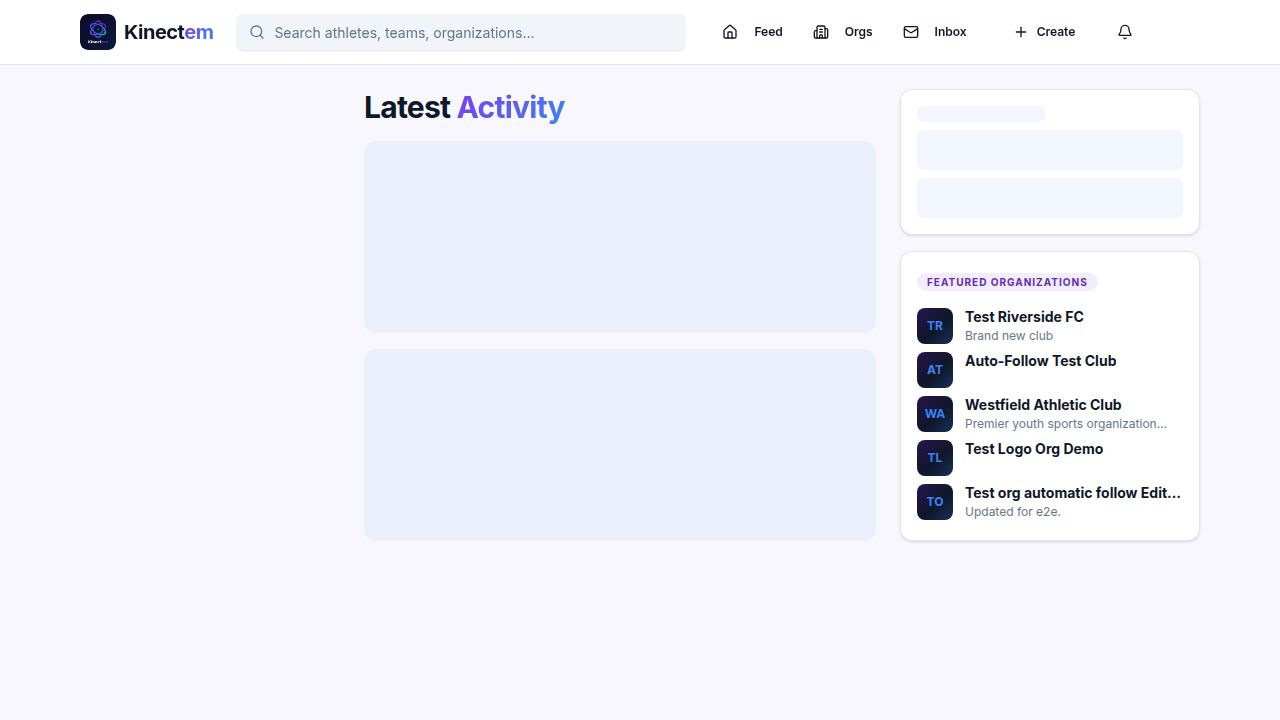
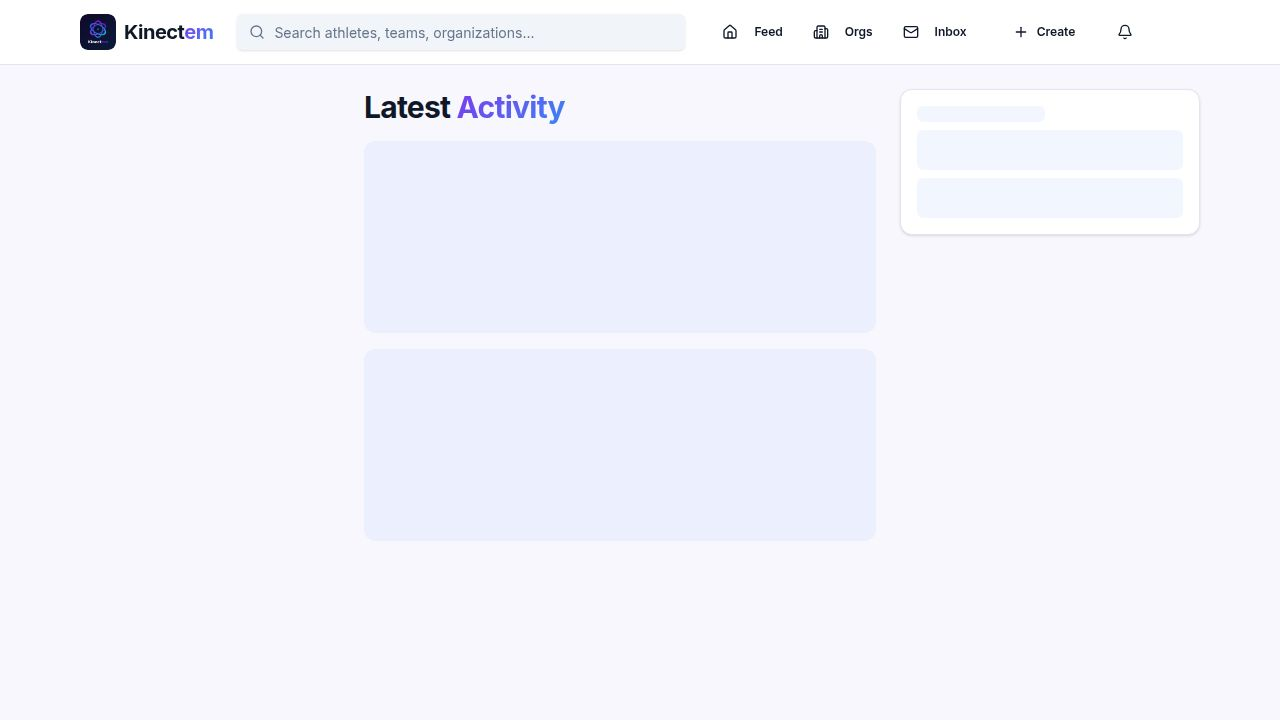
Task #105: Tap-to-enlarge profile photos in posts and message lists
Extended the avatar lightbox pattern that Task #95 introduced on the
user profile page to two more places where avatars appear:

- Post header avatars in the feed/PostCard
- Post author avatar on the PostPage
- Conversation list (left rail) participant avatars in MessagesPage

Implementation:
- Added a small reusable `AvatarLightbox` component
  (`artifacts/kinectem/src/components/AvatarLightbox.tsx`) that wraps an
  Avatar in a Radix Dialog trigger, with a sr-only DialogTitle for a11y
  and a transparent dialog showing the full image. When `avatarUrl` is
  null/undefined the component renders the children as-is (no-op).
- Refactored `UserProfilePage` to use the shared component (no behavior
  change; same data-testids preserved).
- Added the lightbox to `PostCard` (context avatar in the post header),
  `PostPage` (post author avatar), and the `MessagesPage` conversation
  list rail.
- Restructured the conversation list row from a `<Link><button>` wrapper
  into a `<div>` that contains the avatar lightbox button and a
  separate `<Link>` over the name/preview text. This avoids invalid
  nested `<button>`s and matches the spec: avatar opens lightbox; row
  text still navigates to the conversation.

Notable bug fixed during testing:
- The trigger button initially called `e.preventDefault()` to swallow
  the event in nested-link contexts. Radix Dialog's
  `composeEventHandlers` skips its own onClick (and so the dialog never
[…]

Changed region(s): [[0.7188, 0.4278, 0.9062, 0.7333], [0.7188, 0.3667, 0.8438, 0.3972]]

diff --git a/artifacts/kinectem/src/components/AvatarLightbox.tsx b/artifacts/kinectem/src/components/AvatarLightbox.tsx
@@ -1,0 +1,72 @@
+import { ReactNode } from "react";
+import {
+  Dialog,
+  DialogContent,
+  DialogTitle,
+  DialogTrigger,
+} from "@/components/ui/dialog";
+
+type AvatarLightboxProps = {
+  avatarUrl: string | null | undefined;
+  displayName: string;
+  ariaLabel?: string;
+  triggerClassName?: string;
+  triggerTestId?: string;
+  dialogTestId?: string;
+  imageTestId?: string;
+  children: ReactNode;
+};
+
+export function AvatarLightbox({
+  avatarUrl,
+  displayName,
+  ariaLabel,
+  triggerClassName,
+  triggerTestId,
+  dialogTestId,
+  imageTestId,
+  children,
+}: AvatarLightboxProps) {
+  if (!avatarUrl) {
+    return <>{children}</>;
+  }
+  return (
+    <Dialog>
+      <DialogTrigger asChild>
+        <button
+          type="button"
+          className={
+            triggerClassName ??
+            "rounded-full focus:outline-none focus-visible:ring-2 focus-visible:ring-ring focus-visible:ring-offset-2"
+          }
+          aria-label={ariaLabel ?? `View ${displayName}'s profile photo`}
+          data-testid={triggerTestId}
+          onClick={(e) => {
+            // Stop the click from bubbling so any wrapping link/row
+            // doesn't navigate, but do NOT preventDefault — Radix's
+            // DialogTrigger skips opening the dialog when the event's
+            // default has already been prevented.
+            e.stopPropagation();
+          }}
+        >
+          {children}
+        </button>
+      </DialogTrigger>
+      <DialogContent
+        className="max-w-2xl p-0 bg-transparent border-none shadow-none"
+        data-testid={dialogTestId}
+        aria-describedby={undefined}
+      >
+        <DialogTitle className="sr-only">
+          {displayName}'s profile photo
+        </DialogTitle>
+        <img
+          src={avatarUrl}
+          alt={`${displayName}'s profile photo`}
+          className="w-full h-auto max-h-[80vh] object-contain rounded-lg"
+          data-testid={imageTestId}
+        />
+      </DialogContent>
+    </Dialog>
+  );
+}

diff --git a/artifacts/kinectem/src/pages/MessagesPage.tsx b/artifacts/kinectem/src/pages/MessagesPage.tsx
@@ -46,6 +46,7 @@ import {
 } from "lucide-react";
 import { timeAgo, getInitials } from "@/lib/format";
 import { shrinkImage, IMAGE_UPLOAD_MAX_BYTES } from "@/lib/shrinkImage";
+import { AvatarLightbox } from "@/components/AvatarLightbox";
 
 function isDeleted(
   m: MessageResponse | DeletedMessageStub,
@@ -157,14 +158,24 @@ export default function MessagesPage() {
           </Card>
         ) : (
           items.map((c: ConversationListItem) => (
-            <Link key={c.id} href={`/messages/${c.id}`}>
-              <button
-                className={`w-full text-left p-3 rounded-lg flex gap-3 cursor-pointer ${
-                  activeId === c.id ? "bg-muted" : "hover:bg-muted/60"
-                }`}
-                data-testid={`conversation-${c.id}`}
+            <div
+              key={c.id}
+              className={`w-full p-3 rounded-lg flex gap-3 ${
+                activeId === c.id ? "bg-muted" : "hover:bg-muted/60"
+              }`}
+              data-testid={`conversation-${c.id}`}
+            >
+              <AvatarLightbox
+                avatarUrl={c.participant.avatarUrl}
+                displayName={c.participant.displayName}
+                triggerClassName="shrink-0 rounded-full focus:outline-none focus-visible:ring-2 focus-visible:ring-ring focus-visible:ring-offset-2"
+                triggerTestId={`btn-open-conversation-avatar-lightbox-${c.id}`}
+                dialogTestId={`dialog-conversation-avatar-lightbox-${c.id}`}
+                imageTestId={`img-conversation-avatar-lightbox-${c.id}`}
               >
-                <Avatar className="w-10 h-10 shrink-0">
+                <Avatar
+                  className={`w-10 h-10 shrink-0 ${c.participant.avatarUrl ? "cursor-pointer" : ""}`}
+                >
                   {c.participant.avatarUrl && (
                     <AvatarImage src={c.participant.avatarUrl} />
                   )}
@@ -172,23 +183,27 @@ export default function MessagesPage() {
                     {getInitials(c.participant.displayName)}
                   </AvatarFallback>
                 </Avatar>
-                <div className="min-w-0 flex-1">
-                  <div className="flex items-center justify-between">
-                    <p className="font-bold text-sm truncate">
-                      {c.participant.displayName}
-                    </p>
-                    {c.unreadCount > 0 && (
-                      <Badge className="text-[10px] font-black bg-primary text-primary-foreground h-4 px-1.5">
-                        {c.unreadCount}
-                      </Badge>
-                    )}
-                  </div>
-                  <p className="text-xs text-muted-foreground truncate">
-                    {c.lastMessage?.bodyPreview ?? "No messages yet"}
+              </AvatarLightbox>
+              <Link
+                href={`/messages/${c.id}`}
+                className="min-w-0 flex-1 text-left cursor-pointer"
+                data-testid={`link-conversation-${c.id}`}
+              >
+                <div className="flex items-center justify-between">
+                  <p className="font-bold text-sm truncate">
+                    {c.participant.displayName}
                   </p>
+                  {c.unreadCount > 0 && (
+                    <Badge className="text-[10px] font-black bg-primary text-primary-foreground h-4 px-1.5">
+                      {c.unreadCount}
+                    </Badge>
+                  )}
                 </div>
-              </button>
-            </Link>
+                <p className="text-xs text-muted-foreground truncate">
+                  {c.lastMessage?.bodyPreview ?? "No messages yet"}
+                </p>
+              </Link>
+            </div>
           ))
         )}
       </aside>

diff --git a/artifacts/kinectem/src/pages/UserProfilePage.tsx b/artifacts/kinectem/src/pages/UserProfilePage.tsx
@@ -29,16 +29,11 @@ import { Badge } from "@/components/ui/badge";
 import { Button } from "@/components/ui/button";
 import { Skeleton } from "@/components/ui/skeleton";
 import { Avatar, AvatarFallback, AvatarImage } from "@/components/ui/avatar";
-import {
-  Dialog,
-  DialogContent,
-  DialogTitle,
-  DialogTrigger,
-} from "@/components/ui/dialog";
 import { Building2, MessageSquare, Tag, Users } from "lucide-react";
 import { PostCard } from "@/components/PostCard";
 import { EditProfileDialog } from "@/components/EditProfileDialog";
 import { FollowListDialog } from "@/components/FollowListDialog";
+import { AvatarLightbox } from "@/components/AvatarLightbox";
 import { getInitials } from "@/lib/format";
 
 export default function UserProfilePage() {
@@ -134,46 +129,22 @@ export default function UserProfilePage() {
         </div>
         <div className="px-6 pb-6 -mt-12">
           <div className="flex items-start justify-between gap-4 flex-wrap">
-            {user.avatarUrl ? (
-              <Dialog>
-                <DialogTrigger asChild>
-                  <button
-                    type="button"
-                    className="rounded-full focus:outline-none focus-visible:ring-2 focus-visible:ring-ring focus-visible:ring-offset-2"
-                    aria-label={`View ${displayName}'s profile photo`}
-                    data-testid="btn-open-avatar-lightbox"
-                  >
-                    <Avatar className="w-24 h-24 border-4 border-card shadow-lg cursor-pointer">
-                      <AvatarImage src={user.avatarUrl} />
-                      <AvatarFallback className="bg-slate-900 text-primary-foreground font-black text-2xl">
-                        {getInitials(displayName)}
-                      </AvatarFallback>
-                    </Avatar>
-                  </button>
-                </DialogTrigger>
-                <DialogContent
-                  className="max-w-2xl p-0 bg-transparent border-none shadow-none"
-                  data-testid="dialog-avatar-lightbox"
-                  aria-describedby={undefined}
-                >
-                  <DialogTitle className="sr-only">
-                    {displayName}'s profile photo
-                  </DialogTitle>
-                  <img
-                    src={user.avatarUrl}
-                    alt={`${displayName}'s profile photo`}
-                    className="w-full h-auto max-h-[80vh] object-contain rounded-lg"
-                    data-testid="img-avatar-lightbox"
-                  />
-                </DialogContent>
-              </Dialog>
-            ) : (
-              <Avatar className="w-24 h-24 border-4 border-card shadow-lg">
+            <AvatarLightbox
+              avatarUrl={user.avatarUrl}
+              displayName={displayName}
+              triggerTestId="btn-open-avatar-lightbox"
+              dialogTestId="dialog-avatar-lightbox"
+              imageTestId="img-avatar-lightbox"
+            >
+              <Avatar
+                className={`w-24 h-24 border-4 border-card shadow-lg ${user.avatarUrl ? "cursor-pointer" : ""}`}
+              >
+                {user.avatarUrl && <AvatarImage src={user.avatarUrl} />}
                 <AvatarFallback className="bg-slate-900 text-primary-foreground font-black text-2xl">
                   {getInitials(displayName)}
                 </AvatarFallback>
               </Avatar>
-            )}
+            </AvatarLightbox>
             {user.isOwnProfile && "email" in user ? (
               <div className="mt-14 flex items-center gap-2">
                 <Link href="/me/tags">

diff --git a/artifacts/kinectem/src/pages/PostPage.tsx b/artifacts/kinectem/src/pages/PostPage.tsx
@@ -8,6 +8,7 @@ import { Play, FileText } from "lucide-react";
 import { timeAgo, getInitials } from "@/lib/format";
 import { PostInteractions } from "@/components/PostInteractions";
 import { GamePhotoAlbum } from "@/components/GamePhotoAlbum";
+import { AvatarLightbox } from "@/components/AvatarLightbox";
 
 export default function PostPage() {
   const params = useParams<{ postId: string }>();
@@ -64,12 +65,22 @@ export default function PostPage() {
       )}
 
       <div className="flex items-center gap-3">
-        <Avatar className="w-10 h-10">
-          {post.author.avatarUrl && <AvatarImage src={post.author.avatarUrl} />}
-          <AvatarFallback className="bg-slate-900 text-primary-foreground font-bold text-xs">
-            {getInitials(post.author.displayName)}
-          </AvatarFallback>
-        </Avatar>
+        <AvatarLightbox
+          avatarUrl={post.author.avatarUrl}
+          displayName={post.author.displayName}
+          triggerTestId={`btn-open-post-author-avatar-lightbox-${post.id}`}
+          dialogTestId={`dialog-post-author-avatar-lightbox-${post.id}`}
+          imageTestId={`img-post-author-avatar-lightbox-${post.id}`}
+        >
+          <Avatar
+            className={`w-10 h-10 ${post.author.avatarUrl ? "cursor-pointer" : ""}`}
+          >
+            {post.author.avatarUrl && <AvatarImage src={post.author.avatarUrl} />}
+            <AvatarFallback className="bg-slate-900 text-primary-foreground font-bold text-xs">
+              {getInitials(post.author.displayName)}
+            </AvatarFallback>
+          </Avatar>
+        </AvatarLightbox>
         <div>
           <Link href={`/users/${post.author.id}`}>
             <p className="font-bold text-sm hover:text-primary cursor-pointer">

diff --git a/artifacts/kinectem/src/components/PostCard.tsx b/artifacts/kinectem/src/components/PostCard.tsx
@@ -21,6 +21,7 @@ import {
   DropdownMenuTrigger,
 } from "@/components/ui/dropdown-menu";
 import { ReportDialog, type ReportContentType } from "@/components/ReportDialog";
+import { AvatarLightbox } from "@/components/AvatarLightbox";
 
 function getContextHref(context: {
   type: "team" | "organization" | "user";
@@ -97,8 +98,17 @@ export function PostCard({ post }: { post: PostResponse | FeedPost }) {
       <CardContent className="p-0">
         <div className="px-5 py-4 flex items-center justify-between border-b border-border/60">
           <div className="flex items-center gap-3 min-w-0">
-            <Link href={getContextHref(post.context)} className="shrink-0">
-              <Avatar className="w-10 h-10 rounded-lg">
+            <AvatarLightbox
+              avatarUrl={post.context.avatarUrl}
+              displayName={post.context.name ?? post.context.type}
+              triggerClassName="shrink-0 rounded-lg focus:outline-none focus-visible:ring-2 focus-visible:ring-ring focus-visible:ring-offset-2"
+              triggerTestId={`btn-open-post-avatar-lightbox-${post.id}`}
+              dialogTestId={`dialog-post-avatar-lightbox-${post.id}`}
+              imageTestId={`img-post-avatar-lightbox-${post.id}`}
+            >
+              <Avatar
+                className={`w-10 h-10 rounded-lg shrink-0 ${post.context.avatarUrl ? "cursor-pointer" : ""}`}
+              >
                 {post.context.avatarUrl && (
                   <AvatarImage src={post.context.avatarUrl} />
                 )}
@@ -106,7 +116,7 @@ export function PostCard({ post }: { post: PostResponse | FeedPost }) {
                   {getInitials(post.context.name ?? post.context.type)}
                 </AvatarFallback>
               </Avatar>
-            </Link>
+            </AvatarLightbox>
             <div className="min-w-0">
               <Link href={getContextHref(post.context)}>
                 <p className="font-bold text-sm truncate hover:underline">